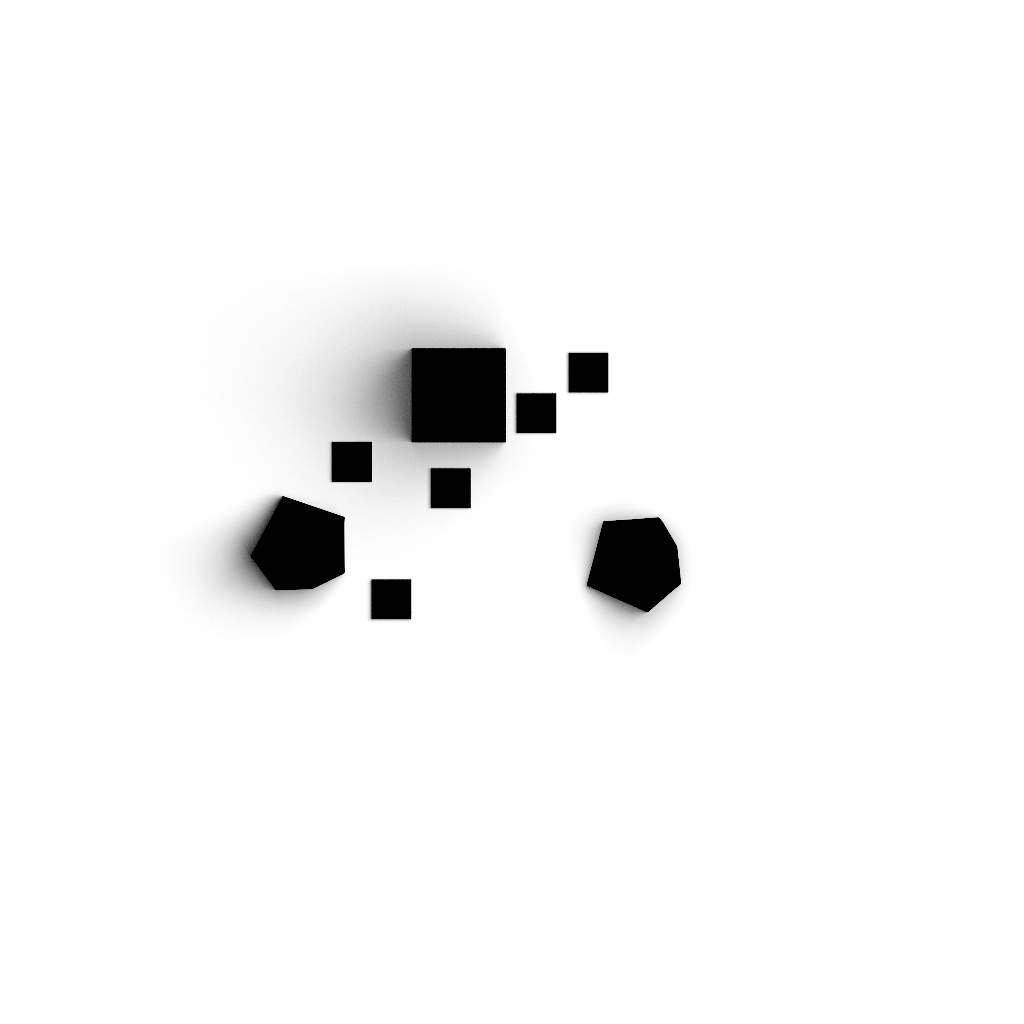
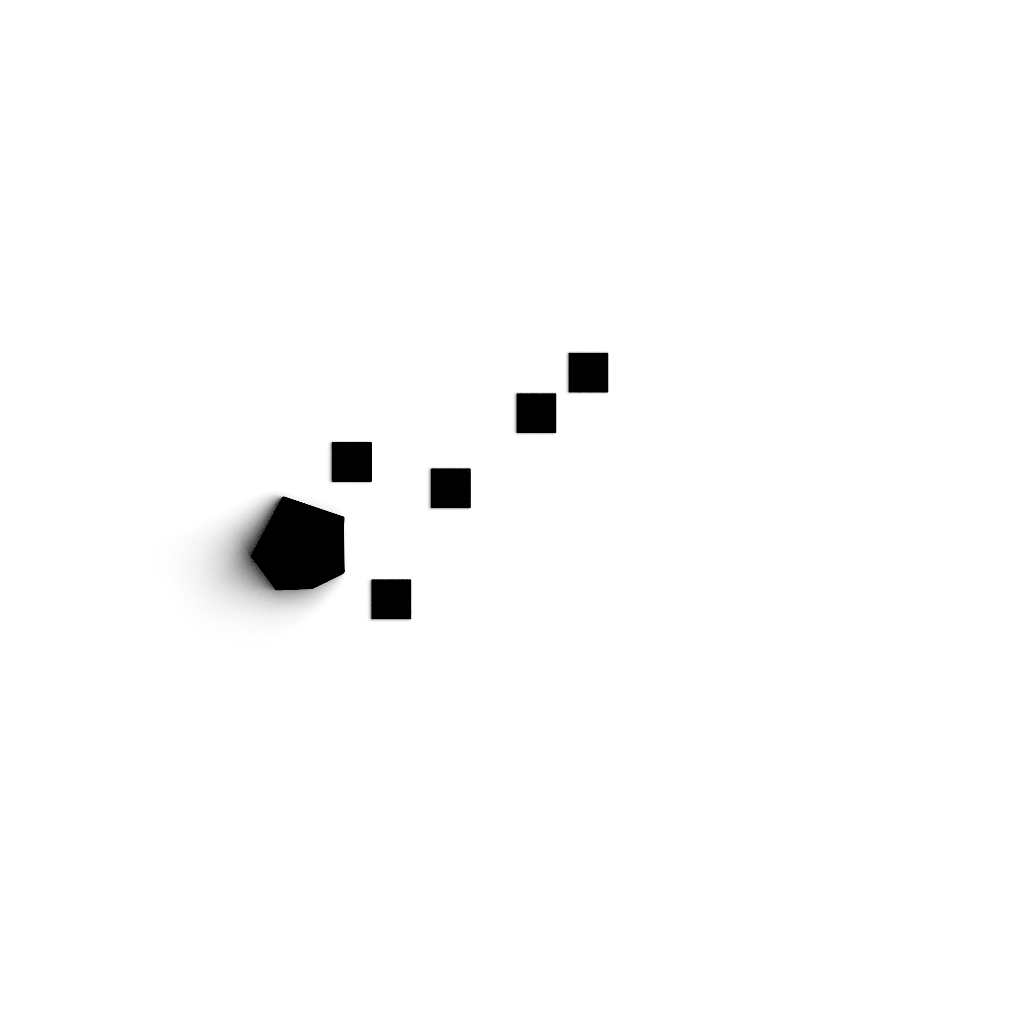
:sparkles: Add arrow keys

Changed region(s): [[0.2812, 0.2812, 0.5, 0.5], [0.5625, 0.5, 0.6875, 0.625]]

diff --git a/src/javascript/World/Objects.js b/src/javascript/World/Objects.js
@@ -9,6 +9,7 @@ export default class Objects
         this.resources = _options.resources
         this.materials = _options.materials
         this.physics = _options.physics
+        this.shadows = _options.shadows
         this.debug = _options.debug
 
         // Set up
@@ -29,25 +30,60 @@ export default class Objects
     {
         // Objects options list
         this.list = [
+            // {
+            //     base: this.resources.items.staticDemoBase.scene,
+            //     collision: this.resources.items.staticDemoCollision.scene,
+            //     floorShadowTexture: this.resources.items.staticDemoFloorShadowTexture,
+            //     offset: new THREE.Vector3(0, 0, 0),
+            //     mass: 0
+            // },
+
+            // Arrow keys
             {
-                base: this.resources.items.staticDemoBase.scene,
-                collision: this.resources.items.staticDemoCollision.scene,
-                floorShadowTexture: this.resources.items.staticDemoFloorShadowTexture,
+                base: this.resources.items.arrowKeyBase.scene,
+                collision: this.resources.items.arrowKeyCollision.scene,
                 offset: new THREE.Vector3(0, 0, 0),
-                mass: 0
+                cloneMesh: true,
+                shadow: { sizeX: 1, sizeY: 1, offsetZ: - 0.2, alpha: 0.5 },
+                mass: 1.5
             },
+            {
+                base: this.resources.items.arrowKeyBase.scene,
+                collision: this.resources.items.arrowKeyCollision.scene,
+                offset: new THREE.Vector3(0, - 0.8, 0),
+                cloneMesh: true,
+                shadow: { sizeX: 1, sizeY: 1, offsetZ: - 0.2, alpha: 0.5 },
+                mass: 1.5
+            },
+            {
+                base: this.resources.items.arrowKeyBase.scene,
+                collision: this.resources.items.arrowKeyCollision.scene,
+                offset: new THREE.Vector3(- 0.8, - 0.8, 0),
+                cloneMesh: true,
+                shadow: { sizeX: 1, sizeY: 1, offsetZ: - 0.2, alpha: 0.5 },
+                mass: 1.5
+            },
+            {
+                base: this.resources.items.arrowKeyBase.scene,
+                collision: this.resources.items.arrowKeyCollision.scene,
+                offset: new THREE.Vector3(0.8, - 0.8, 0),
+                cloneMesh: true,
+                shadow: { sizeX: 1, sizeY: 1, offsetZ: - 0.2, alpha: 0.5 },
+                mass: 1.5
+            },
+
             // {
             //     base: this.resources.items.dynamicSphereBase.scene,
             //     collision: this.resources.items.dynamicSphereCollision.scene,
             //     offset: new THREE.Vector3(0, 0, 0),
             //     mass: 2
             // },
-            {
-                base: this.resources.items.dynamicBoxBase.scene,
-                collision: this.resources.items.dynamicBoxCollision.scene,
-                offset: new THREE.Vector3(0, - 4, 2),
-                mass: 2
-            },
+            // {
+            //     base: this.resources.items.dynamicBoxBase.scene,
+            //     collision: this.resources.items.dynamicBoxCollision.scene,
+            //     offset: new THREE.Vector3(0, - 4, 2),
+            //     mass: 2
+            // },
             // {
             //     base: this.resources.items.dynamicBoxBase.scene,
             //     collision: this.resources.items.dynamicBoxCollision.scene,
@@ -192,7 +228,6 @@ export default class Objects
             }
         }
 
-
         // Recenter
         if(center.length() > 0)
         {
@@ -211,15 +246,22 @@ export default class Objects
     {
         const object = {}
 
+        // Offset
+        const offset = new THREE.Vector3()
+        if(_options.offset)
+        {
+            offset.copy(_options.offset)
+        }
+
         // Container
         object.container = this.getConvertedMesh(_options.base.children, _options)
-        object.container.position.copy(_options.offset)
+        object.container.position.copy(offset)
         this.container.add(object.container)
 
         // Create physics object
         object.collision = this.physics.addObjectFromThree({
             meshes: [..._options.collision.children],
-            offset: _options.offset,
+            offset: offset,
             mass: _options.mass
         })
 
@@ -227,6 +269,14 @@ export default class Objects
         {
             _child.position.sub(object.collision.center)
         }
+
+        // Shadow
+        // Add shadow
+        if(_options.shadow)
+        {
+            this.shadows.add(object.container, _options.shadow)
+        }
+
 
         // Time tick event
         this.time.on('tick', () =>

diff --git a/src/javascript/Resources.js b/src/javascript/Resources.js
@@ -13,6 +13,9 @@ import staticDemoFloorShadowSource from '../models/staticDemo/floor-shadow.png'
 import staticDemoBaseSource from '../models/staticDemo/base.glb'
 import staticDemoCollisionSource from '../models/staticDemo/collision.glb'
 
+import ArrowKeyBaseSource from '../models/arrowKey/base.glb'
+import ArrowKeyCollisionSource from '../models/arrowKey/collision.glb'
+
 import dynamicSphereBaseSource from '../models/dynamicSphere/base.glb'
 import dynamicSphereCollisionSource from '../models/dynamicSphere/collision.glb'
 
@@ -50,6 +53,9 @@ export default class Resources extends EventEmitter
 
             { name: 'dynamicSphereBase', source: dynamicSphereBaseSource },
             { name: 'dynamicSphereCollision', source: dynamicSphereCollisionSource },
+
+            { name: 'arrowKeyBase', source: ArrowKeyBaseSource },
+            { name: 'arrowKeyCollision', source: ArrowKeyCollisionSource },
 
             { name: 'dynamicBoxBase', source: dynamicBoxBaseSource },
             { name: 'dynamicBoxCollision', source: dynamicBoxCollisionSource },

diff --git a/src/javascript/Physics.js b/src/javascript/Physics.js
@@ -108,9 +108,9 @@ export default class Physics
          */
         this.car.options = {}
         this.car.options.chassisWidth = 1.02
-        this.car.options.chassisHeight = 0.85
+        this.car.options.chassisHeight = 1.05
         this.car.options.chassisDepth = 2.03
-        this.car.options.chassisOffset = new CANNON.Vec3(0, 0, 0.58)
+        this.car.options.chassisOffset = new CANNON.Vec3(0, 0, 0.475)
         this.car.options.chassisMass = 20
         this.car.options.wheelFrontOffsetDepth = 0.635
         this.car.options.wheelBackOffsetDepth = - 0.475

diff --git a/src/javascript/World/index.js b/src/javascript/World/index.js
@@ -87,6 +87,7 @@ export default class
             resources: this.resources,
             materials: this.materials,
             physics: this.physics,
+            shadows: this.shadows,
             debug: this.debugFolder
         })
         this.container.add(this.objects.container)
